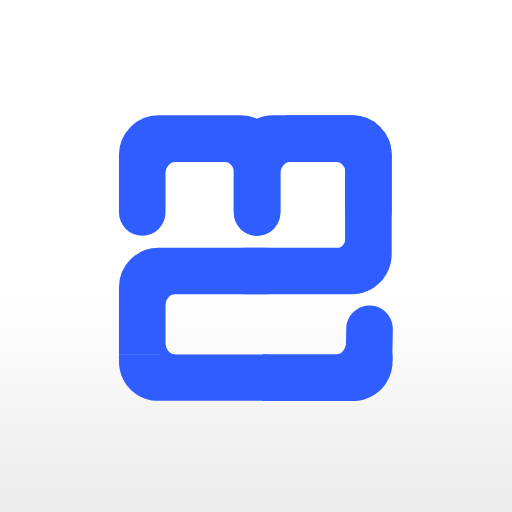
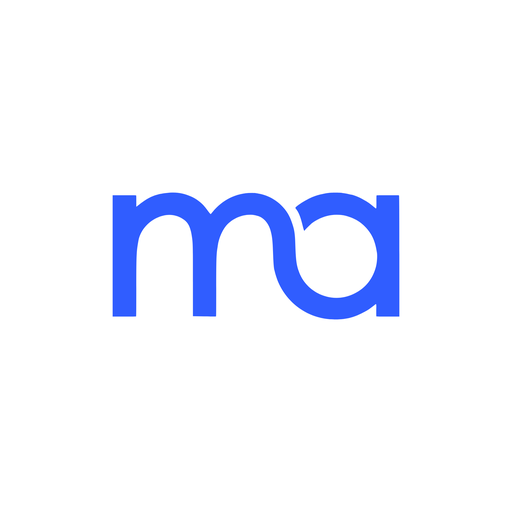
Add files via upload

Changed region(s): [[0.2188, 0.2188, 0.7812, 0.7812]]

diff --git a/src/components/BrandMark.tsx b/src/components/BrandMark.tsx
@@ -1,27 +1,10 @@
-// The My Alumnus mark (owner's final logo, 2026-10-05), without its tile, cropped to the mark.
-// Drawn in currentColor so CSS sets the colour (the brand blue, --ma-color-signal-500 = #2f5dff, matches the
-// logo's #305DFF). Full logo and app-icon versions: brand/ in the project and public/ icons.
+// The My Alumnus mark: the lowercase "ma" monogram (owner's redesigned logo, 2026-10-09), traced from the owner's
+// artwork into one path. Drawn in currentColor so CSS sets the colour (the brand blue, --ma-color-signal-500).
+// App icons (src/app/icon.svg, favicon.ico, apple-icon.png, public/icon-*.png, badge-96.png) use the same path.
 export function BrandMark({ className }: { className?: string }) {
   return (
-    <svg className={className} viewBox="55 51 241 252" fill="none" aria-hidden="true" focusable="false">
-    <path d="M75.5186 136.795V86.1855C75.5186 78.3036 81.9081 71.9141 89.79 71.9141H162.172C170.054 71.9141 176.444 78.3036 176.444 86.1856V136.795" stroke="currentColor" strokeWidth="40.9337" strokeLinecap="round" />
-    <path d="M176.441 136.795V86.1855C176.441 78.3036 182.831 71.9141 190.713 71.9141H260.006C267.888 71.9141 274.277 78.3036 274.277 86.1856V136.795" stroke="currentColor" strokeWidth="40.9337" strokeLinecap="round" />
-    <path d="M201.155 71.9141H260.003C267.885 71.9141 274.275 78.3036 274.275 86.1855V168.357" stroke="currentColor" strokeWidth="40.9337" />
-    <path d="M75.5186 261.72L75.5186 202.557C75.5186 194.675 81.9081 188.285 89.79 188.285L185.713 188.285" stroke="currentColor" strokeWidth="40.9337" />
-    <path d="M95.9912 261.54H185.719V302.368H87.0781C69.163 300.982 55.0576 286.006 55.0576 267.735V261.435H95.9912V261.54Z" fill="currentColor" />
-    <path d="M295.504 261.525V267.813C295.504 286.142 281.31 301.154 263.314 302.459H254.304L254.648 261.525H295.504Z" fill="currentColor" />
-    <path d="M295.773 239.402C295.99 228.101 287.005 218.763 275.704 218.545C264.402 218.327 255.064 227.313 254.846 238.614L275.31 239.008L295.773 239.402ZM275.31 239.008L254.846 238.614L254.305 266.765L274.768 267.159L295.231 267.553L295.773 239.402L275.31 239.008Z" fill="currentColor" />
-    <path d="M294.747 173.627C294.747 193.022 279.023 208.746 259.628 208.746H164.086V167.813H294.747V173.627Z" fill="currentColor" />
-    <path d="M245.582 87.9729C255.157 87.9729 258.747 91.5635 258.747 101.138H265.928L271.912 86.776L255.157 68.8232C247.976 75.2065 236.007 87.9729 245.582 87.9729Z" fill="currentColor" />
-    <path d="M181.078 281.995L255.227 281.995" stroke="currentColor" strokeWidth="40.9337" />
-    <path d="M104.5 92.5C98.9 92.5 96.5 98.1667 96 101L94 100.5L91 95.5L92 86C95.6667 87 103.3 89.7 104.5 92.5Z" fill="currentColor" />
-    <path d="M205.5 92.5C199.9 92.5 197.5 98.1667 197 101L195 100.5L192 95.5L193 86C196.667 87 204.3 89.7 205.5 92.5Z" fill="currentColor" />
-    <path d="M148 92.5C153.6 92.5 156 98.1667 156.5 101L158.5 100.5L161.5 95.5L160.5 86C156.833 87 149.2 89.7 148 92.5Z" fill="currentColor" />
-    <path d="M246 92.5C251.6 92.5 254 98.1667 254.5 101L256.5 100.5L259.5 95.5L258.5 86C254.833 87 247.2 89.7 246 92.5Z" fill="currentColor" />
-    <path d="M246 168.5C251.6 168.5 254 162.833 254.5 160L256.5 160.5L259.5 165.5L258.5 175C254.833 174 247.2 171.3 246 168.5Z" fill="currentColor" />
-    <path d="M246 261.5C251.6 261.5 254 255.833 254.5 253L256.5 253.5L259.5 258.5L258.5 268C254.833 267 247.2 264.3 246 261.5Z" fill="currentColor" />
-    <path d="M104.5 261.5C98.9 261.5 96.5 255.833 96 253L94 253.5L91 258.5L92 268C95.6667 267 103.3 264.3 104.5 261.5Z" fill="currentColor" />
-    <path d="M104.5 208.5C98.9 208.5 96.5 214.167 96 217L94 216.5L91 211.5L92 202C95.6667 203 103.3 205.7 104.5 208.5Z" fill="currentColor" />
+    <svg className={className} viewBox="0 0 1600 708" fill="currentColor" aria-hidden="true" focusable="false">
+      <path d="M1212 707C1162 702 1127 692 1086 672C1014 636 957 575 925 502C918 486 910 461 906 446C905 441 903 434 902 430C899 415 897 389 895 334C893 269 890 242 880 208C869 172 845 143 815 132C752 109 670 136 628 192C610 216 594 254 588 288C588 291 586 297 586 302C579 342 578 363 578 538C578 677 578 689 577 691C575 692 570 692 511 691L448 690L448 503C448 296 448 281 442 244C434 190 421 165 390 146C348 119 296 117 245 142C193 167 154 215 144 268C133 330 132 342 132 536C132 654 132 690 131 691C130 692 114 692 65 692L0 692L0 354L0 15L65 15C122 15 130 15 131 16C132 18 132 25 132 48C132 65 132 78 132 79C133 79 137 76 142 72C185 37 216 20 255 10C276 5 304 1 331 0C382 -2 439 16 480 47C501 63 514 77 536 108C542 116 546 120 547 120C548 120 552 115 557 109C612 41 690 2 773 2C790 2 794 2 814 6C840 10 871 21 895 36C928 55 957 84 977 116C990 138 998 158 1007 188C1014 210 1018 239 1019 280C1022 372 1025 400 1038 437C1078 557 1216 620 1333 571C1402 543 1448 490 1468 419C1475 396 1478 357 1475 336C1467 283 1454 247 1429 214C1394 168 1350 140 1289 127C1288 127 1281 126 1274 125C1216 119 1161 135 1112 171C1104 178 1077 204 1073 210C1069 216 1068 214 1062 191C1049 137 1040 115 1026 95C1023 91 1020 87 1020 86C1017 82 1056 54 1088 38C1114 24 1147 12 1172 8C1177 7 1183 6 1186 5C1191 4 1202 2 1215 1C1226 0 1262 0 1271 1C1274 1 1282 2 1286 3C1298 4 1316 8 1323 10C1326 10 1331 12 1334 12C1356 18 1380 28 1402 41C1423 52 1438 63 1460 82C1468 89 1470 90 1471 87C1472 86 1472 70 1472 51C1472 28 1472 16 1473 16C1474 15 1491 15 1512 15C1533 15 1561 15 1574 15C1595 15 1597 15 1598 16C1599 18 1600 61 1600 355L1600 692L1536 692C1483 692 1473 692 1472 691C1471 690 1471 681 1471 656C1472 617 1472 619 1461 628C1430 652 1424 656 1397 670C1344 698 1301 708 1242 708C1230 708 1216 707 1212 707Z" />
     </svg>
   );
 }

diff --git a/src/app/app.css b/src/app/app.css
@@ -447,3 +447,8 @@ html[data-text="larger"] { font-size: 125%; }
 .ma-filters__go { gap: var(--ma-space-4); }
 .ma-filters__clear { align-self: center; white-space: nowrap; }
 .ma-date-echo { margin: 6px 0 0; color: var(--ma-color-text-secondary); font-size: var(--ma-typography-label-font-size); }
+
+/* New "ma" logo (owner, 2026-10-09): a wide mark, so it is sized by width inside the round badge. */
+.ma-rail__logo svg { width: 26px; height: auto; }
+.ma-signin .ma-rail__logo svg { width: 32px; height: auto; }
+.ma-signin .ma-signin__brand .ma-rail__logo svg { width: 38px; height: auto; }
